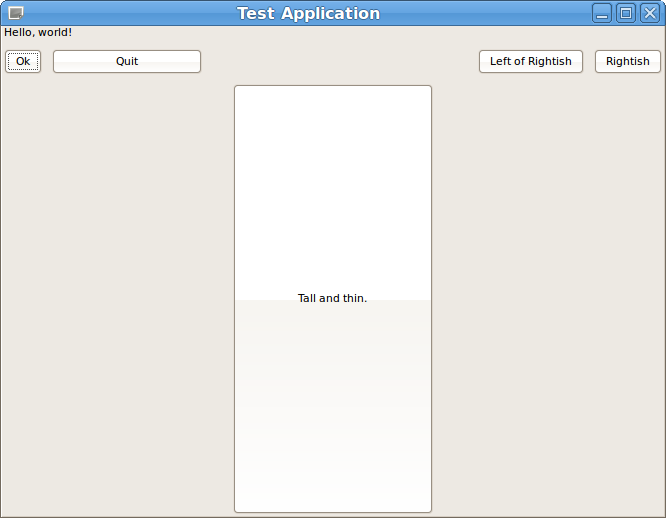
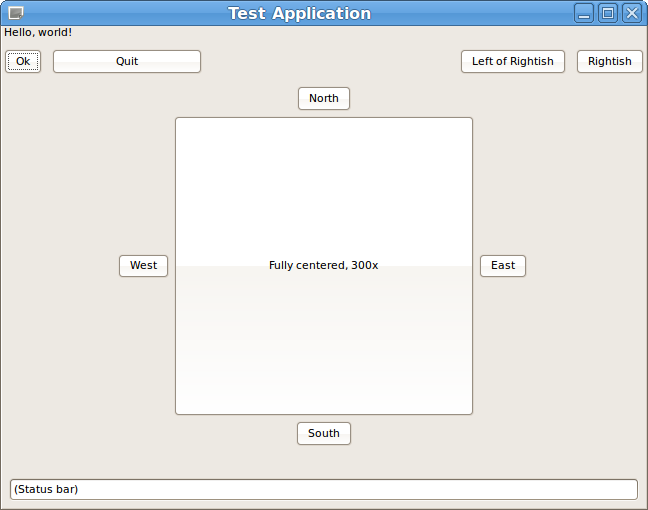
Bugfix; also added cooler screenshot. :D

diff --git a/BattleReel/src/phoenix_ext/anchor-layout.cpp b/BattleReel/src/phoenix_ext/anchor-layout.cpp
@@ -308,7 +308,10 @@ int AnchorLayout::GetAttached(Axis& axis, LayoutData& args, bool ltr, phoenix::S
 	if (anch==Anchor::Center) {
 		//The center layout requires both points to be calculatable. Otherwise, it't not very different.
 		int baseVal = AnchorLayout::Get(otherAxis, args, true, *other->sizable);
-		baseVal = (AnchorLayout::Get(otherAxis, args, true, *other->sizable)-baseVal)/2 + baseVal;
+		baseVal = (AnchorLayout::Get(otherAxis, args, false, *other->sizable)-baseVal)/2 + baseVal;
+
+		std::cout <<"  returning centered: " <<baseVal <<" + " <<item.offset <<"\n";
+
 		return baseVal + item.offset;
 	} else {
 		//For left/right layouts, there's only one point to check.
@@ -361,7 +364,10 @@ void AnchorLayout::GetCenteredAttached(nall::linear_vector<int>& res, Axis& axis
 {
 	//Retrieve the item, call the sibling function
 	AnchorPoint& item = ltr ? axis.least_ : axis.greatest_;
+	int offset = item.offset;
+	item.offset = 0;
 	int center = AnchorLayout::GetAttached(axis, args, ltr, comp);
+	item.offset = offset;
 
 	std::cout <<"   (" <<&comp   <<") Centered2 at: " <<center <<" width " <<item.offset <<"\n";
 
